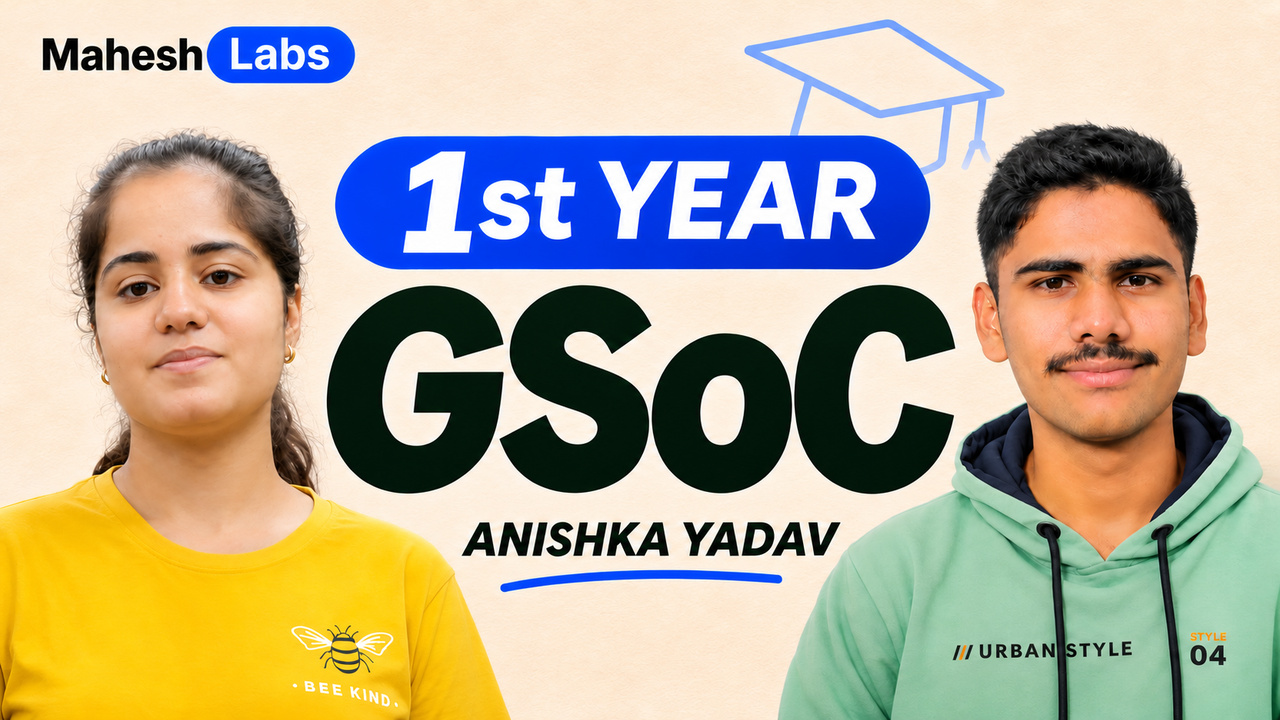
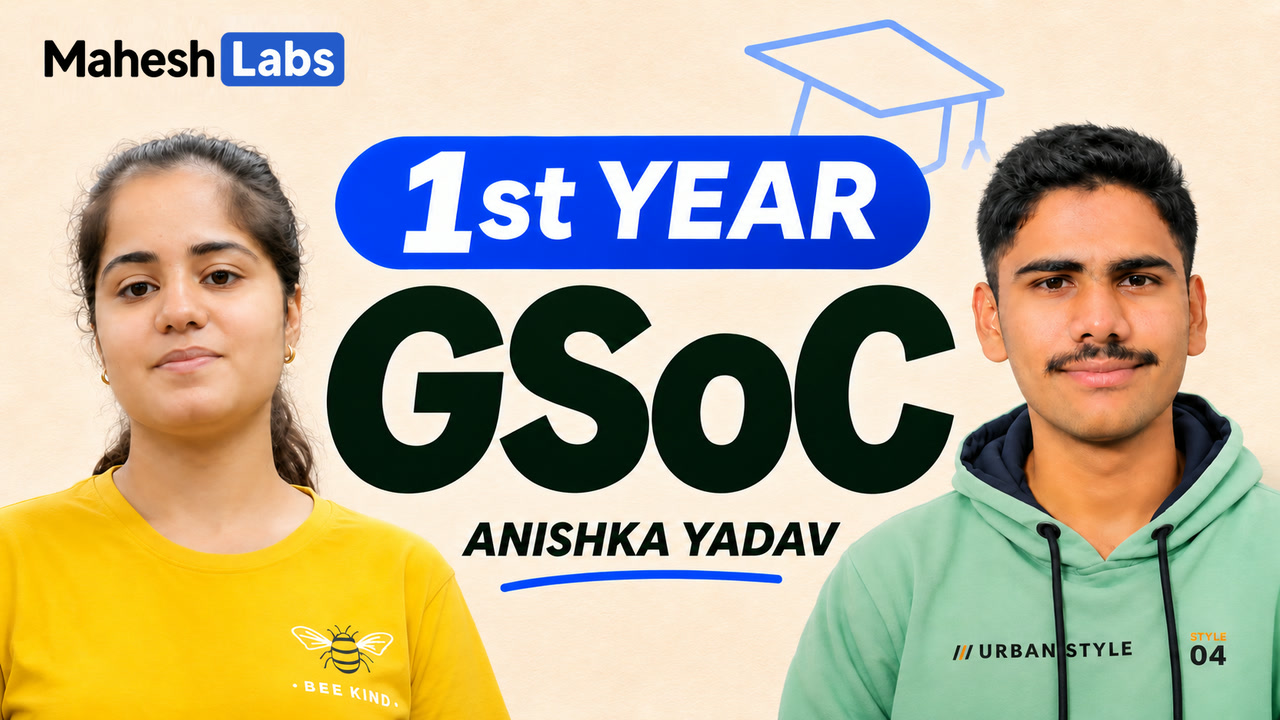
Simplify intro branding and update Anishka thumbnail

Changed region(s): [[0.0312, 0.0306, 0.2812, 0.1222]]

diff --git a/components/site-intro.tsx b/components/site-intro.tsx
@@ -73,26 +73,15 @@ export function SiteIntro() {
     >
       <noscript><style>{".site-intro { display: none; }"}</style></noscript>
       <div className="site-intro-content">
-        <div className="site-intro-brand">
-          <Image
-            className="site-intro-mark"
-            src="/assets/brand-mark.svg"
-            width={96}
-            height={96}
-            alt=""
-            preload
-            unoptimized
-          />
-          <Image
-            className="site-intro-wordmark"
-            src="/assets/logo-intro.webp"
-            width={320}
-            height={72}
-            alt=""
-            preload
-            unoptimized
-          />
-        </div>
+        <Image
+          className="site-intro-wordmark"
+          src="/assets/logo-intro.webp"
+          width={320}
+          height={72}
+          alt=""
+          preload
+          unoptimized
+        />
         <div className={`site-intro-words${caption.index === 1 ? " is-emphasis" : ""}`}>
           <span className="site-intro-measure">{captions[caption.index]}</span>
           <span className="site-intro-caption">{caption.text}<span className="site-intro-cursor" /></span>

diff --git a/app/globals.css b/app/globals.css
@@ -450,16 +450,6 @@ nav a,.header-subscribe,.filter,.episode-search input,.hero-actions .text-link,.
   gap: 2rem;
   width: 100%;
 }
-.site-intro-brand {
-  display: flex;
-  flex-direction: column;
-  align-items: center;
-  gap: .75rem;
-}
-.site-intro-mark {
-  width: clamp(4rem, 12vw, 6rem);
-  height: auto;
-}
 .site-intro-wordmark {
   width: min(20rem, 75vw);
   height: auto;
